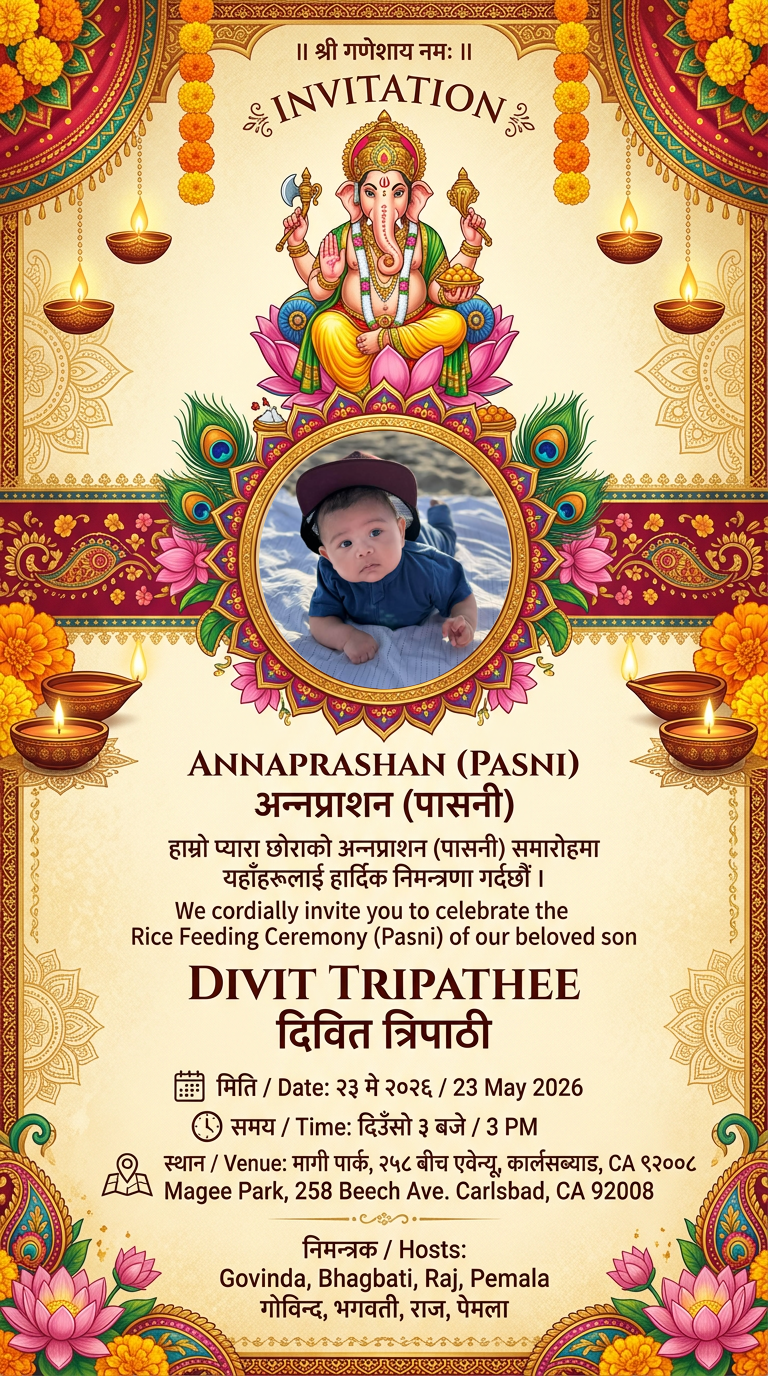
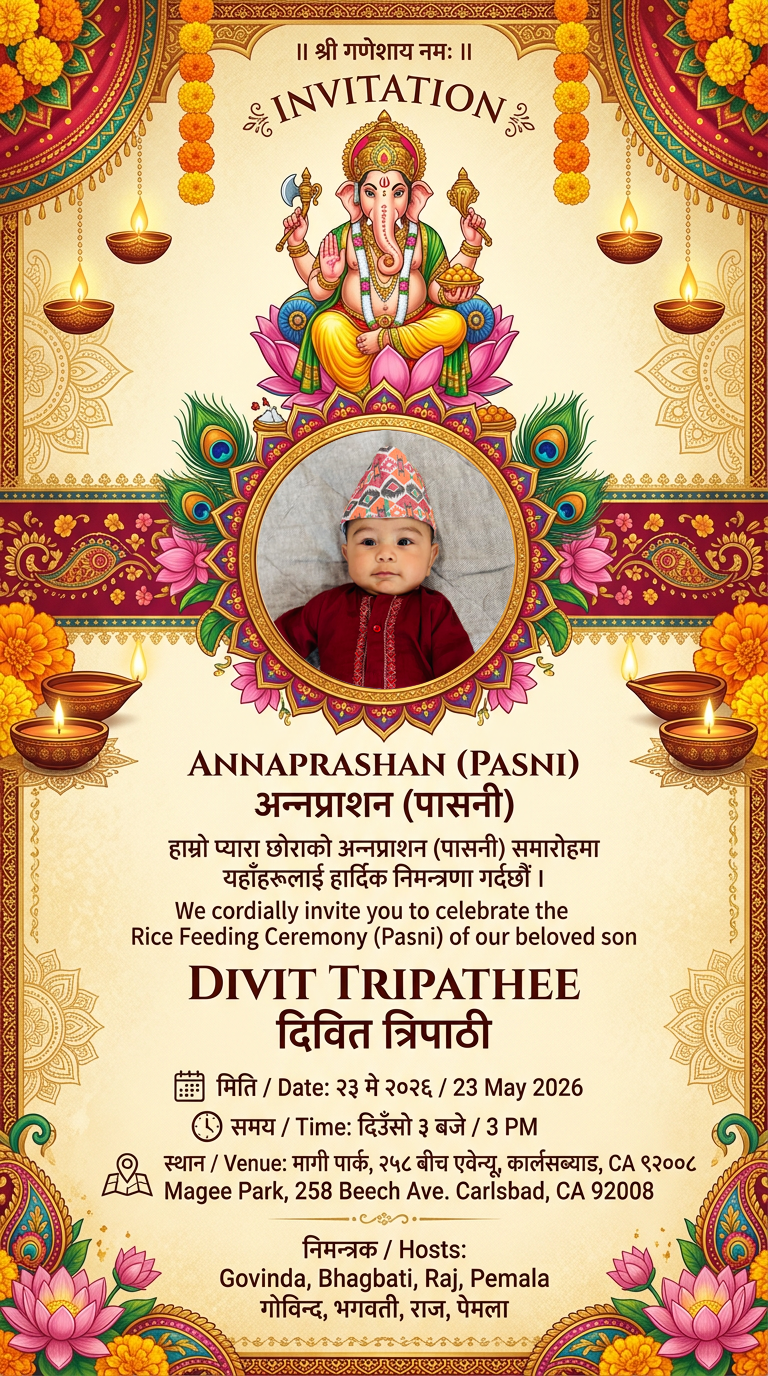
Updated Invitation Card
Updated Invitation Card

Changed region(s): [[0.3125, 0.3125, 0.6875, 0.5]]

diff --git a/invitation.html b/invitation.html
@@ -25,7 +25,7 @@ body {
   height: 700px;
   border-radius: 5px;
   /*box-shadow: 0 12px 35px rgba(0,0,0,0.2);*/
-  background: url('images/Invitation_draft2.png') no-repeat center center;
+  background: url('images/PasniInvitation.png') no-repeat center center;
   background-size: contain; /* ensure full image visible */
   /*background-color: #fff; */
   /* margin: 5px; */
